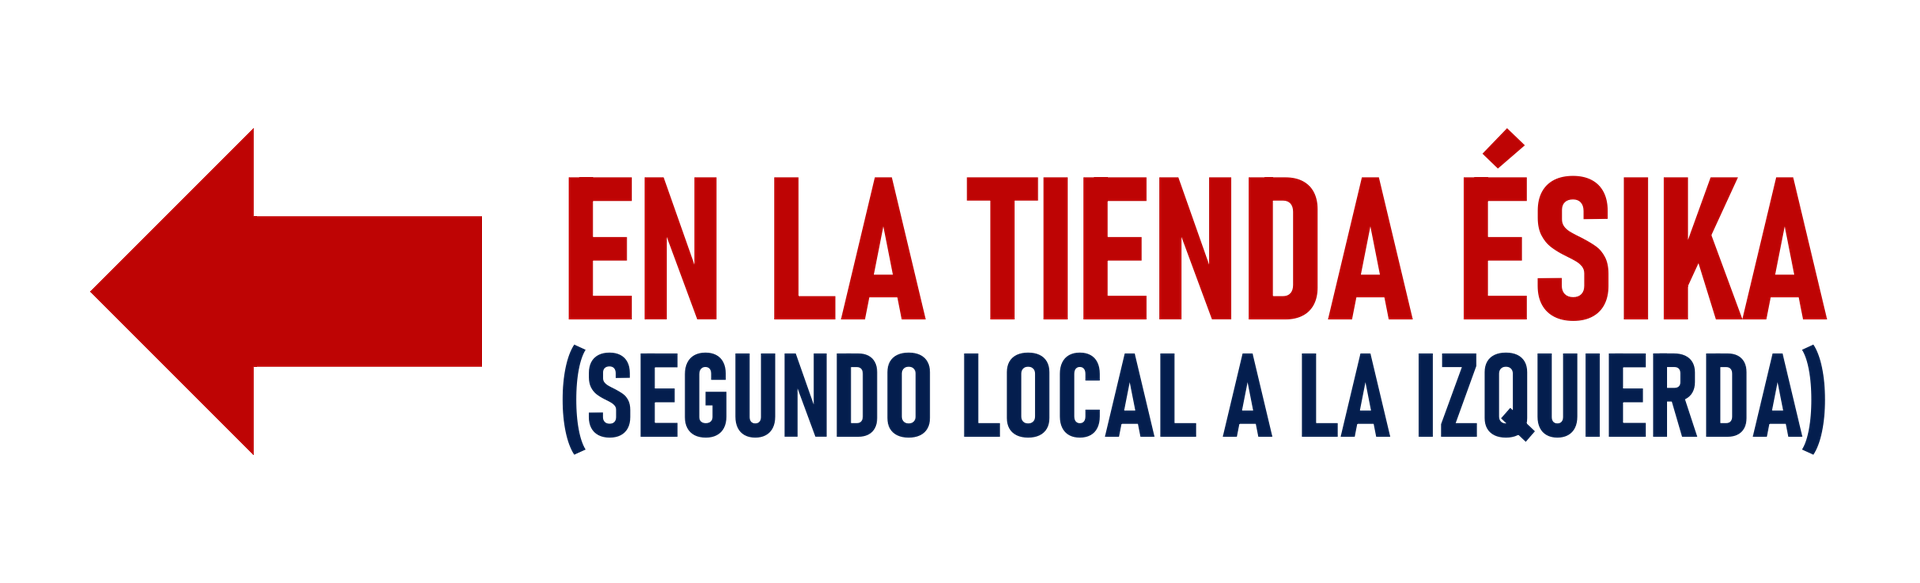
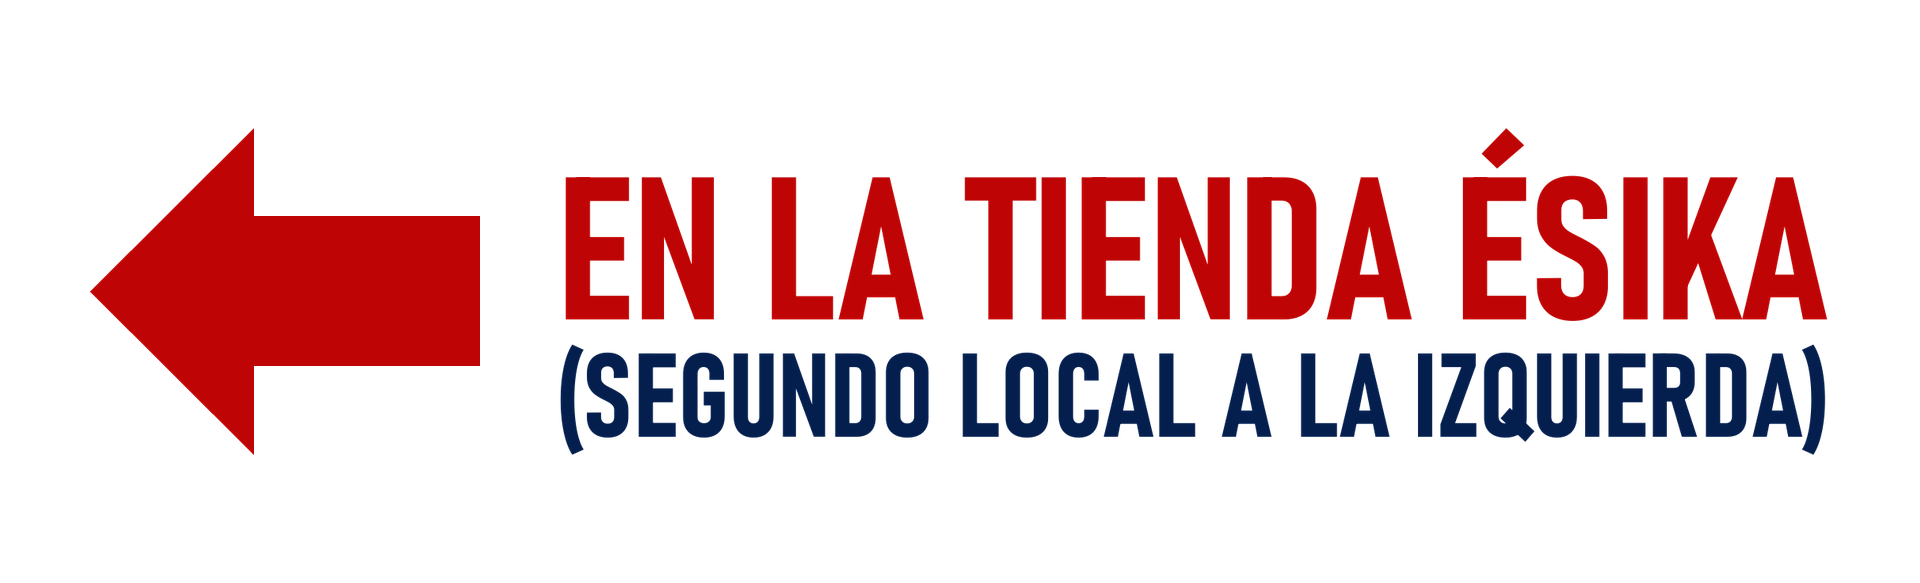
Draw the header arrows as tip, turn and body that stay joined and centered on the tip in the editor

diff --git a/tools/layout_editor/parts_catalog.js b/tools/layout_editor/parts_catalog.js
@@ -40,19 +40,27 @@ const davivienda_pieces = [
 ];
 // The "a la vuelta, en la tienda ÉSIKA, segundo local a la izquierda" header, drawn by tools/make_store_header_parts.py.
 // The same pieces appear in the top and the bottom arrow, each at its own place in its section. Each arrow is a
-// tip and a straight body, so "ancho" on the body lengthens the arrow without bending the tip.
+// tip, a turn and a straight body; "ancho" on the body lengthens the arrow without bending the tip.
 const top_arrow_pieces = [
-  ['flecha_cuerpo', 143, 109],
-  ['flecha_punta', 36, 109],
-  ['texto_rojo', 304, 140],
-  ['texto_azul', 305, 205],
+  ['flecha_curva', 66, 180],
+  ['flecha_cuerpo', 154, 238],
+  ['flecha_punta', 36, 110],
+  ['texto_rojo', 285, 138],
+  ['texto_azul', 286, 205],
 ];
 const bottom_arrow_pieces = [
-  ['flecha_cuerpo', 143, 94],
-  ['flecha_punta', 36, 94],
-  ['texto_rojo', 304, 125],
-  ['texto_azul', 305, 190],
+  ['flecha_curva', 66, 165],
+  ['flecha_cuerpo', 154, 223],
+  ['flecha_punta', 36, 95],
+  ['texto_rojo', 285, 123],
+  ['texto_azul', 286, 190],
 ];
+// The turn hangs centered under the tip (its stem is as thick as the body, 52 px) and the body leaves the turn.
+const arrow_joints = (prefix) => ({
+  [`${prefix}flecha_curva`]: { to: `${prefix}flecha_punta`, anchor: 'below_center', stem: 52 },
+  [`${prefix}flecha_cuerpo`]: { to: `${prefix}flecha_curva`, anchor: 'right_bottom' },
+});
+const joints = { ...arrow_joints('sup_'), ...arrow_joints('inf_') };
 const top_arrow_names = top_arrow_pieces.map(([file]) => `sup_${file}`);
 const bottom_arrow_names = bottom_arrow_pieces.map(([file]) => `inf_${file}`);
 
@@ -91,7 +99,7 @@ export const parts_catalog = [
   ...davivienda_pieces.map(([folder, name, x, y]) => ({ name, source: `${daviplata_folder}/${folder}/${name}.webp`, x, y, is_background: false })),
   ...top_arrow_pieces.map(([file, x, y]) => ({ name: `sup_${file}`, source: `${header_folder}/columna/${file}.webp`, x, y, is_background: false })),
   ...bottom_arrow_pieces.map(([file, x, y]) => ({ name: `inf_${file}`, source: `${header_folder}/columna/${file}.webp`, x, y: y + bands[5][1], is_background: false })),
-].map((part) => ({ ...part, section: section_of[part.name] }));
+].map((part) => ({ ...part, section: section_of[part.name], joint: joints[part.name] }));
 
 // Height of every section slot in the original proposal, from top to bottom.
 export const original_section_heights = bands.map(([, top], index) => (bands[index + 1]?.[1] ?? sign_size.height) - top);

diff --git a/tools/layout_editor/layout_editor.js b/tools/layout_editor/layout_editor.js
@@ -1,6 +1,7 @@
 import { layout_editor_styles } from './layout_editor.css.js';
 import { active_sign_key, original_image, original_section_heights, parts_catalog, sections, sign_size } from './active_sign.js';
 import { render_section_blob } from './section_image.js';
+import { align_joints, joint_root } from './arrow_joints.js';
 import { move_border, set_section_height, section_tops } from './section_space.js';
 import { load_layout, save_layout, load_section_heights, save_section_heights, original_layout, parse_layout, describe_layout, ordered_names } from './layout_store.js';
 import { describe_signs, describe_size } from './physical_size.js';
@@ -85,6 +86,7 @@ export class LayoutEditor extends HTMLElement {
     const image = new Image();
     image.src = part.source;
     image.draggable = false;
+    image.addEventListener('load', () => this.#refresh_stage());
     image.addEventListener('pointerdown', (event) => this.#start_drag(event, part));
     image.addEventListener('wheel', (event) => this.#scale_with_wheel(event, part), { passive: false });
     this.#images.set(part.name, image);
@@ -148,7 +150,7 @@ export class LayoutEditor extends HTMLElement {
   #start_drag(event, part) {
     this.#select(part.name);
     if (this.#is_locked(part)) return;
-    const placement = this.#layout[part.name];
+    const placement = this.#layout[joint_root(parts_catalog, part.name)];
     const origin = { pointer_x: event.clientX, pointer_y: event.clientY, x: placement.x, y: placement.y };
     const move = (moved) => {
       placement.x = Math.round(origin.x + (moved.clientX - origin.pointer_x) / this.#zoom);
@@ -274,6 +276,7 @@ export class LayoutEditor extends HTMLElement {
   }
 
   #refresh_stage() {
+    align_joints(parts_catalog, this.#layout, (name) => this.#natural_size(name));
     const sizer = this.#element('.sizer');
     sizer.style.width = `${sign_size.width * this.#zoom}px`;
     sizer.style.height = `${sign_size.height * this.#zoom}px`;

diff --git a/tools/layout_editor/arrow_joints.js b/tools/layout_editor/arrow_joints.js
@@ -1,0 +1,43 @@
+// Arrow pieces hang from the piece before them (the body from the tip, or from the turn), so the arrow always
+// stays in one piece: a joined piece takes the scale of the piece it hangs from and stays centered on it.
+// Only its "ancho" is its own, so the body can be made longer or shorter.
+
+// Same overlap as BODY_OVERLAP in tools/make_store_header_parts.py, so no seam shows between the pieces.
+const overlap = 3;
+
+export function align_joints(parts, layout, size_of) {
+  for (const part of parts) {
+    if (part.joint && has_size(size_of, part.name, part.joint.to)) align(part, layout, size_of);
+  }
+}
+
+// Dragging any piece of an arrow moves the whole arrow, which hangs from its first piece.
+export function joint_root(parts, name) {
+  const part = parts.find((candidate) => candidate.name === name);
+  return part?.joint ? joint_root(parts, part.joint.to) : name;
+}
+
+function align(part, layout, size_of) {
+  const { to, anchor, stem } = part.joint;
+  const follower = layout[part.name];
+  follower.scale = layout[to].scale;
+  const leader = box(layout[to], size_of(to));
+  const own = box(follower, size_of(part.name));
+  const gap = overlap * follower.scale;
+  const positions = {
+    right_middle: [leader.right - gap, leader.top + (leader.height - own.height) / 2],
+    right_bottom: [leader.right - gap, leader.bottom - own.height],
+    below_center: [leader.left + (leader.width - stem * follower.scale) / 2, leader.bottom - gap],
+  };
+  [follower.x, follower.y] = positions[anchor].map(Math.round);
+}
+
+function box(placement, size) {
+  const width = size.width * placement.scale * placement.widen;
+  const height = size.height * placement.scale * placement.stretch;
+  return { left: placement.x, top: placement.y, width, height, right: placement.x + width, bottom: placement.y + height };
+}
+
+function has_size(size_of, ...names) {
+  return names.every((name) => size_of(name).width > 0);
+}

diff --git a/tools/layout_editor/corner_sign.js b/tools/layout_editor/corner_sign.js
@@ -18,10 +18,10 @@ const band_titles = ['1. cabecera', '2. nequi', '3. bancolombia', '4. fotocopias
 // Pieces as [section index, folder, name, x, y], in pixels of the sign, back to front.
 const pieces = [
   // The arrow is a tip and a straight body, so "ancho" on the body lengthens it without bending the tip.
-  [0, 'header', 'flecha_cuerpo', 254, 128],
+  [0, 'header', 'flecha_cuerpo', 251, 216],
   [0, 'header', 'flecha_punta', 90, 128],
-  [0, 'header', 'texto_rojo', 560, 128],
-  [0, 'header', 'texto_azul', 558, 344],
+  [0, 'header', 'texto_rojo', 557, 128],
+  [0, 'header', 'texto_azul', 556, 344],
   [1, 'textos', 'texto_recarga', 228, 715],
   [1, 'logos', 'logo_nequi', 121, 1029],
   [1, 'textos', 'texto_hazlo_facil', 231, 1547],
@@ -71,8 +71,10 @@ const band_parts = bands.map(([name, y], index) => ({
 }));
 // The header pieces live in their own folder, shared with the column sign's art.
 const piece_source = (folder, name) => (folder === 'header' ? `${header_folder}/ancho/${name}.webp` : `${sign_folder}/${folder}/${name}.webp`);
+// The body stays centered on the tip; see arrow_joints.js.
+const joints = { flecha_cuerpo: { to: 'flecha_punta', anchor: 'right_middle' } };
 const piece_parts = pieces.map(([index, folder, name, x, y]) => ({
-  name, source: piece_source(folder, name), x, y, is_background: false, section: band_titles[index],
+  name, source: piece_source(folder, name), joint: joints[name], x, y, is_background: false, section: band_titles[index],
 }));
 export const parts_catalog = [...band_parts, ...piece_parts];
 

diff --git a/tools/make_store_header_parts.py b/tools/make_store_header_parts.py
@@ -1,23 +1,17 @@
 """Draws the "EN LA TIENDA ÉSIKA (SEGUNDO LOCAL A LA IZQUIERDA)" header of
 images/signs/propuestas/encabezado_tienda_esika_referencia.png at print resolution, as loose pieces and as one
-finished header per board. The column stands at the corner, so its header says "A LA VUELTA" and keeps the
-curved arrow of the earlier art. Run from the project root:
+finished header per board. The column stands at the corner, so its header says "A LA VUELTA" with a turning arrow.
+Arrows are drawn as a tip and a body (and a turn), each body centered on the tip. Run from the project root:
 .venv/Scripts/python tools/make_store_header_parts.py
 """
 from pathlib import Path
 
-import numpy as np
 from PIL import Image, ImageDraw, ImageFont
 
 PROJECT_ROOT = Path(__file__).resolve().parent.parent
 OUTPUT = PROJECT_ROOT / "images/signs/partes/encabezado_tienda_esika"
 FONT_PATH = Path("C:/Windows/Fonts/bahnschrift.ttf")
 FONT_STYLE = b"Bold Condensed"
-CURVED_ARROW_SOURCE = PROJECT_ROOT / "images/signs/propuestas/flecha_esika_vuelta_nueva.webp"
-CURVED_ARROW_BOX = (84, 37, 812, 640)
-# Pixels this far from white count as ink; the ramp keeps the arrow edge smooth.
-INK_FLOOR = 12
-INK_STRENGTH = 4
 # Colors sampled from the reference image.
 STORE_RED = (190, 4, 4, 255)
 DIRECTION_BLUE = (4, 30, 78, 255)
@@ -27,7 +21,10 @@ WHITE = (255, 255, 255, 255)
 WIDE_HEADER = (1920, 583, 90)
 COLUMN_HEADER = (960, 400, 36)
 ARROW_GAP = 0.05
+# Joined arrow pieces overlap by this many pixels so no seam shows; the layout editor uses the same value.
 BODY_OVERLAP = 3
+# Shapes are drawn this many times larger and scaled down, for smooth edges.
+SUPERSAMPLE = 4
 LINE_GAP = 0.12
 
 
@@ -55,40 +52,25 @@ class StoreHeaderMaker:
         }
 
     # The arrow beside the stacked texts, as tall as its share of them, all centered in the header.
-    # Each text is its own piece, saved at its final size so the layout editor shows it at scale 1.
+    # Each piece is saved at its final size so the layout editor shows it at scale 1.
     def _make_header(self, folder, size, texts, arrow_style):
         width, height, margin = size
         make_arrow, arrow_share = arrow_style
         text = self._stack(list(texts.values()))
-        arrow_height = round(text.height * arrow_share)
-        natural_width = make_arrow(arrow_height).width + width * ARROW_GAP + text.width
+        arrow_width, arrow_height = self._bounds(make_arrow(round(text.height * arrow_share)))
+        natural_width = arrow_width + width * ARROW_GAP + text.width
         scale = min((width - 2 * margin) / natural_width, (height - 2 * margin) / max(text.height, arrow_height))
         arrow = make_arrow(round(text.height * scale * arrow_share))
         left = round((width - natural_width * scale) / 2)
         text_right, top = width - left, round((height - text.height * scale) / 2)
-        places = self._arrow_parts(arrow, left, (height - arrow.height) // 2)
+        arrow_top = (height - self._bounds(arrow)[1]) // 2
+        places = {name: (piece, left + x, arrow_top + y) for name, (piece, x, y) in arrow.items()}
         for name, (piece, piece_top) in self._scaled_lines(texts, scale).items():
             places[name] = (piece, text_right - round((text.width * scale + piece.width) / 2), top + piece_top)
         self._save_header(folder, size, places)
 
-    # The arrow as its tip and its straight body, so the editor can lengthen the body without bending the tip.
-    # The body overlaps the tip by a few pixels so no seam shows between them.
-    def _arrow_parts(self, arrow, left, top):
-        split = self._body_start(arrow)
-        tip = arrow.crop((0, 0, split + BODY_OVERLAP, arrow.height))
-        body = arrow.crop((split, 0, arrow.width, arrow.height))
-        return {"flecha_cuerpo": (body, left + split, top), "flecha_punta": (tip, left, top)}
-
-    # The first column from which every column looks like one near the end: where the straight body begins.
-    # The reference stays a few pixels inside the right edge, whose soft border differs from the body.
-    def _body_start(self, arrow):
-        alpha = np.asarray(arrow.getchannel("A")).astype(int)
-        reference = arrow.width - 6
-        matches = np.abs(alpha - alpha[:, reference:reference + 1]).max(axis=0) < 40
-        split = reference
-        while split > 0 and matches[split - 1]:
-            split -= 1
-        return split
+    def _bounds(self, pieces):
+        return (max(x + piece.width for piece, x, _ in pieces.values()), max(y + piece.height for piece, _, y in pieces.values()))
 
     # The texts shrunk by scale, with their tops as they stand in the stack.
     def _scaled_lines(self, texts, scale):
@@ -109,28 +91,44 @@ class StoreHeaderMaker:
             print(f"  at {x}, {y}")
         self._save(header, f"{folder}/encabezado")
 
-    # A left arrow: a triangular head and a shaft half its height, drawn 4x larger and scaled down for smooth edges.
+    # A left arrow: the triangular tip and a straight body under half as thick, centered on the tip.
     def _straight_arrow(self, height):
-        scale = 4
-        width = round(height * 1.2)
-        big_width, big_height = width * scale, height * scale
-        head_length = big_height * 0.5
-        shaft_top, shaft_bottom = big_height * 0.27, big_height * 0.73
-        canvas = Image.new("RGBA", (big_width, big_height), TRANSPARENT)
-        ImageDraw.Draw(canvas).polygon([
-            (0, big_height / 2), (head_length, 0), (head_length, shaft_top), (big_width, shaft_top),
-            (big_width, shaft_bottom), (head_length, shaft_bottom), (head_length, big_height),
-        ], fill=STORE_RED)
-        return canvas.resize((width, height), Image.LANCZOS)
+        thickness = round(height * 0.46)
+        tip = self._polygon((round(height * 0.5), height), [(0, 0.5), (1, 0), (1, 1)])
+        body = Image.new("RGBA", (round(height * 0.7), thickness), STORE_RED)
+        return {"flecha_cuerpo": (body, tip.width - BODY_OVERLAP, (height - thickness) // 2), "flecha_punta": (tip, 0, 0)}
 
-    # The turning arrow of the earlier art, keyed out of its white background and painted in the header red.
+    # The turning arrow: the tip points up, the turn hangs centered under it and the straight body leaves to the right.
     def _curved_arrow(self, height):
-        source = Image.open(CURVED_ARROW_SOURCE).convert("L").crop(CURVED_ARROW_BOX)
-        source = source.resize((round(source.width * height / source.height), height), Image.LANCZOS)
-        alpha = source.point(lambda value: max(0, min(255, (255 - value - INK_FLOOR) * INK_STRENGTH)))
-        arrow = Image.new("RGBA", source.size, STORE_RED)
-        arrow.putalpha(alpha)
-        return arrow
+        thickness = round(height / 3.6)
+        tip = self._polygon((round(thickness * 2.15), round(thickness * 1.4)), [(0.5, 0), (1, 1), (0, 1)])
+        turn = self._turn(thickness)
+        body = Image.new("RGBA", (round(thickness * 1.6), thickness), STORE_RED)
+        turn_left, turn_top = (tip.width - thickness) // 2, tip.height - BODY_OVERLAP
+        return {
+            "flecha_curva": (turn, turn_left, turn_top),
+            "flecha_cuerpo": (body, turn_left + turn.width - BODY_OVERLAP, turn_top + turn.height - thickness),
+            "flecha_punta": (tip, 0, 0),
+        }
+
+    # A short stem going down that bends a quarter turn to the right, as thick as the body.
+    def _turn(self, thickness):
+        stem, inner = round(thickness * 0.37), round(thickness * 0.75)
+        outer = inner + thickness
+        canvas = Image.new("RGBA", (outer * SUPERSAMPLE, (stem + outer) * SUPERSAMPLE), TRANSPARENT)
+        draw = ImageDraw.Draw(canvas)
+        draw.rectangle([0, 0, thickness * SUPERSAMPLE - 1, stem * SUPERSAMPLE], fill=STORE_RED)
+        for radius, color in ((outer, STORE_RED), (inner, TRANSPARENT)):
+            center_x, center_y, reach = outer * SUPERSAMPLE, stem * SUPERSAMPLE, radius * SUPERSAMPLE
+            draw.pieslice([center_x - reach, center_y - reach, center_x + reach, center_y + reach], 90, 180, fill=color)
+        return canvas.resize((outer, stem + outer), Image.LANCZOS)
+
+    # A red polygon whose corners are given as fractions of its size.
+    def _polygon(self, size, corners):
+        width, height = size
+        canvas = Image.new("RGBA", (width * SUPERSAMPLE, height * SUPERSAMPLE), TRANSPARENT)
+        ImageDraw.Draw(canvas).polygon([(x * width * SUPERSAMPLE, y * height * SUPERSAMPLE) for x, y in corners], fill=STORE_RED)
+        return canvas.resize(size, Image.LANCZOS)
 
     def _stack(self, lines):
         gap = round(lines[0].height * LINE_GAP)

diff --git a/README.md b/README.md
@@ -42,7 +42,7 @@ The panel's "Probar diseños" section lets you pick a design for each board (bla
 
 ## Arranging the cut pieces
 
-With the dev server running, open http://localhost:8020/tools/layout_editor/ to drag the pieces of `signs/partes/bancolombia_nueva_1x4_6/` (arrow keys nudge 1 px, Shift 10 px), scale them, make them wider or narrower ("ancho": 1 is the normal width; the header arrows are a tip and a body, so widening the body lengthens the arrow), reorder them, write a note per piece, set how tall each section is (the number next to its name, or drag the pink line between two sections; the space moves from one section to its neighbour) and each section has "Copiar imagen" (copies it as a PNG), "Eliminar imagen" (or the Delete key) takes the chosen image out of the sign and of every copy until you restore it, "Copiar imagen completa" copies the whole sign, "Vista final" hides every control mark, and "Copiar instrucciones" pastes the layout into the chat.
+With the dev server running, open http://localhost:8020/tools/layout_editor/ to drag the pieces of `signs/partes/bancolombia_nueva_1x4_6/` (arrow keys nudge 1 px, Shift 10 px), scale them, make them wider or narrower ("ancho": 1 is the normal width; the header arrows are a tip, a turn on the column and a body that stay joined and centered on the tip: dragging any of them moves the whole arrow, the tip's scale sets their thickness and widening the body lengthens the arrow), reorder them, write a note per piece, set how tall each section is (the number next to its name, or drag the pink line between two sections; the space moves from one section to its neighbour) and each section has "Copiar imagen" (copies it as a PNG), "Eliminar imagen" (or the Delete key) takes the chosen image out of the sign and of every copy until you restore it, "Copiar imagen completa" copies the whole sign, "Vista final" hides every control mark, and "Copiar instrucciones" pastes the layout into the chat.
 
 ### From the editor to the 3D page and the print PDF
 
